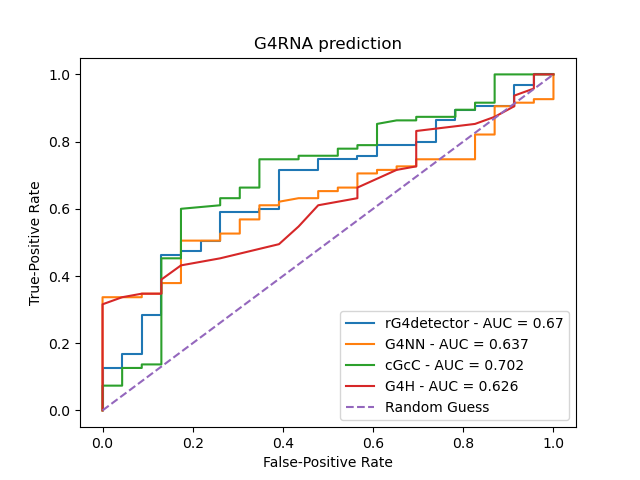
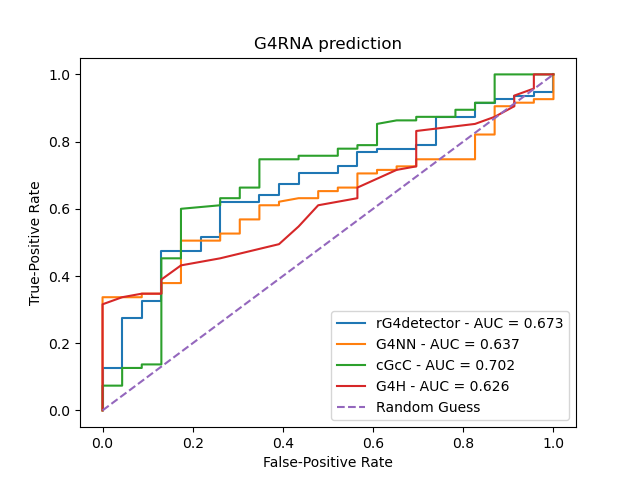
...

diff --git a/code/PARAMETERS.py b/code/PARAMETERS.py
@@ -8,7 +8,7 @@ HUMAN_V29_TRANSCRIPTOME_PATH = GENOMES_FILE + "gencode.v29.transcripts.fa"
 
 SCREENER_DETECTION_PATH = SCREENER_PATH + "detection/"
 SCREENER_DETECTION_PREDICTION_PATH = SCREENER_DETECTION_PATH + "screener_predictions.pkl"
-ENSEMBLE_SIZE = 3
+ENSEMBLE_SIZE = 4
 NUM_OF_ENSEMBLE_ITERATIONS = 50
 MOUSE_PATH = "independent_datasets/mouse/"
 MOUSE_DATA_PATH = MOUSE_PATH + "Table_S1_mouse.csv"

diff --git a/code/set_g4rna_data.py b/code/set_g4rna_data.py
@@ -6,8 +6,8 @@ from PARAMETERS import *
 import sys
 
 # GAPS = (DATA_SIZE - 30)//2
-GAP5 = DATA_SIZE//2 + 15
-GAP3 = DATA_SIZE//2 - 15
+GAP5 = DATA_SIZE
+GAP3 = DATA_SIZE
 
 MATCH_THRESHOLD = 0.85
 
